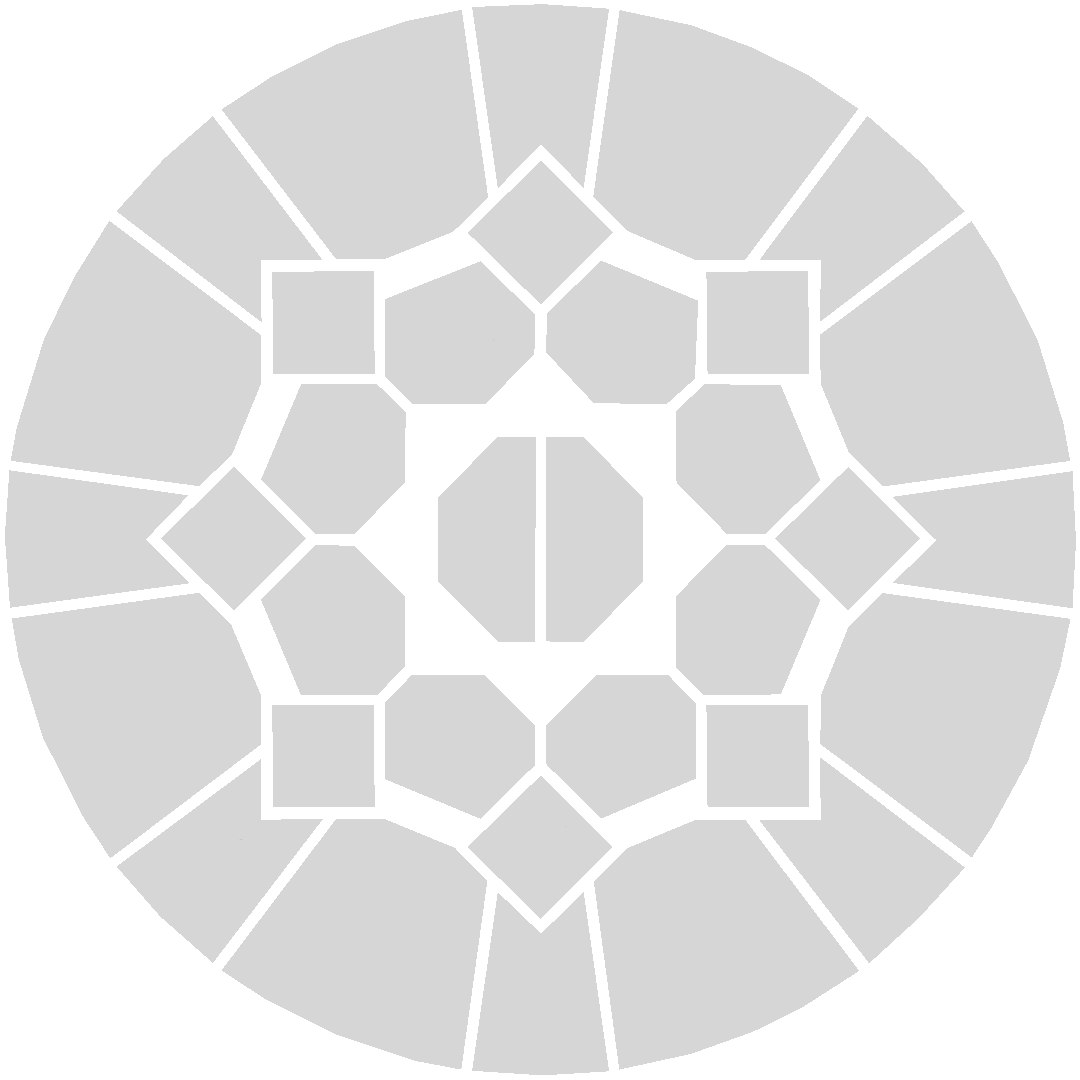
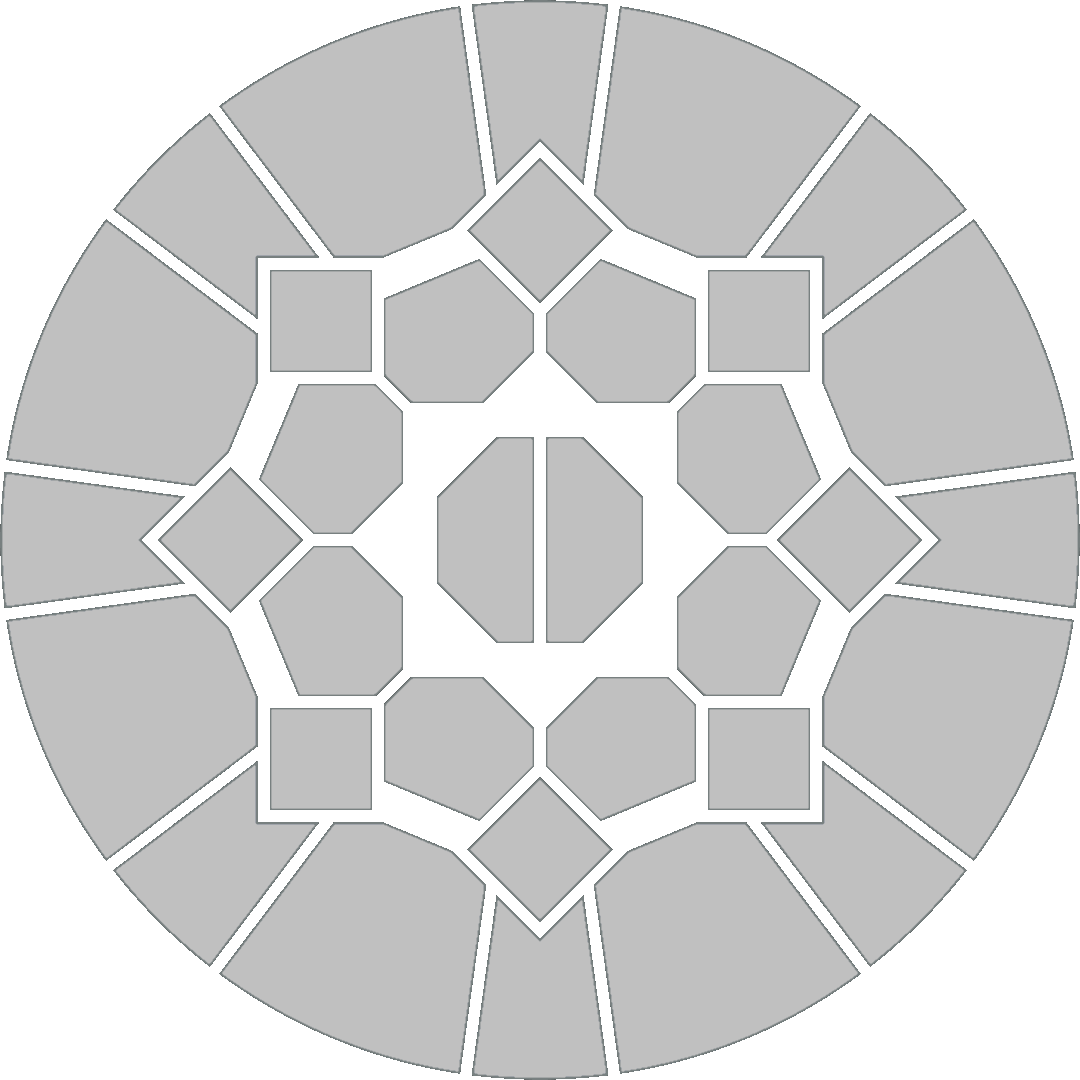
feat: 更清晰的触屏图像

diff --git a/draw.py b/draw.py
@@ -11,7 +11,7 @@ AREA_ACT_CANVAS = []
 rotate_angle = 0
 
 for i, area in enumerate(SENSOR_INFO):
-    exec(f'AREA_ACT_CANVAS.append(Image.open("images/canvas{area[0]}.png"))')
+    exec(f'AREA_ACT_CANVAS.append(Image.open("images/hilight{area[0]}.png"))')
     AREA_ACT_CANVAS[-1] = AREA_ACT_CANVAS[-1].rotate(rotate_angle)
     if canvas_size == 1080:
         AREA_ACT_CANVAS[-1] = AREA_ACT_CANVAS[-1].resize((canvas_size,) * 2)
